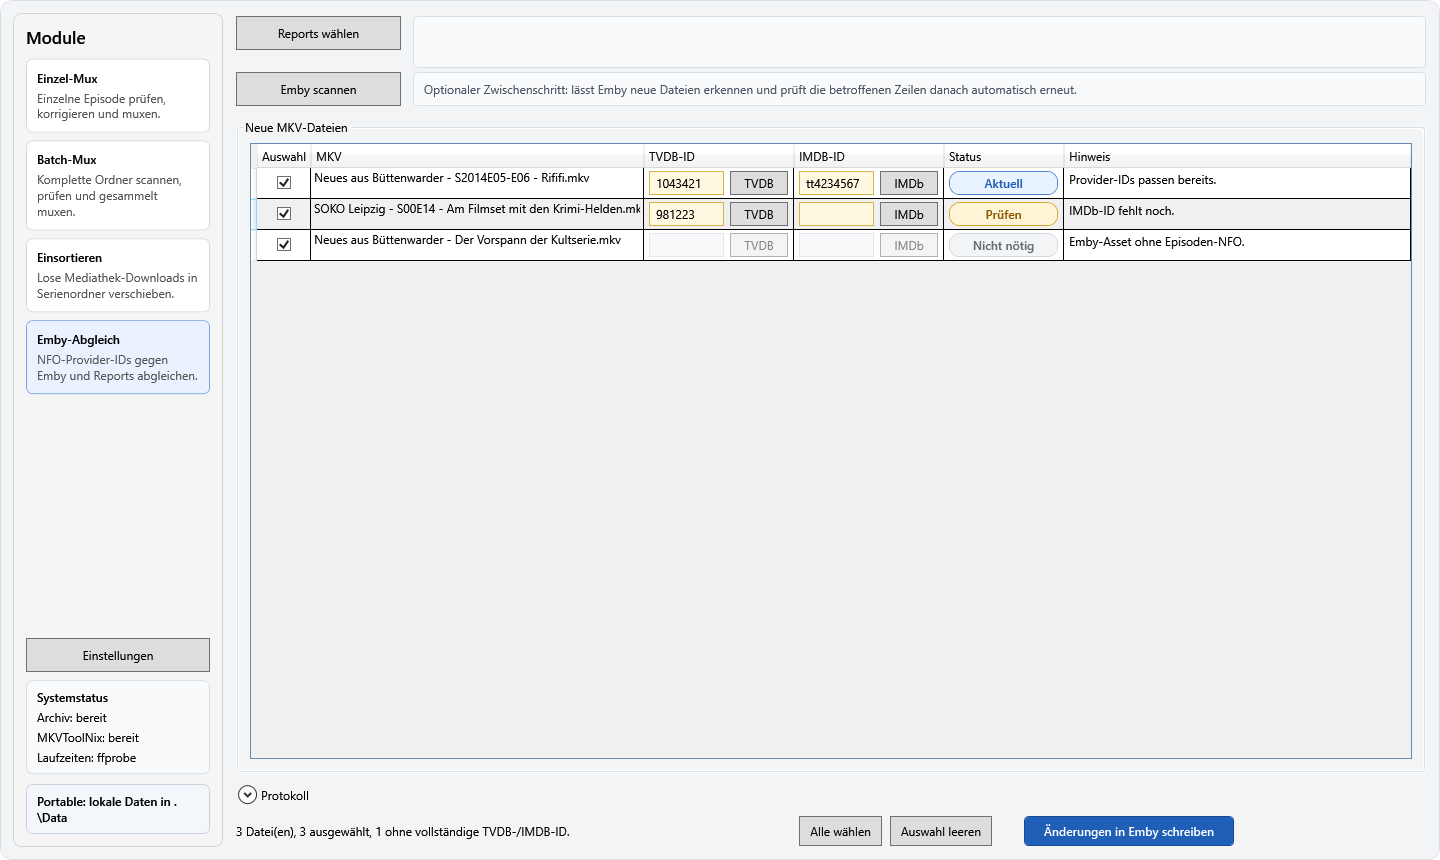
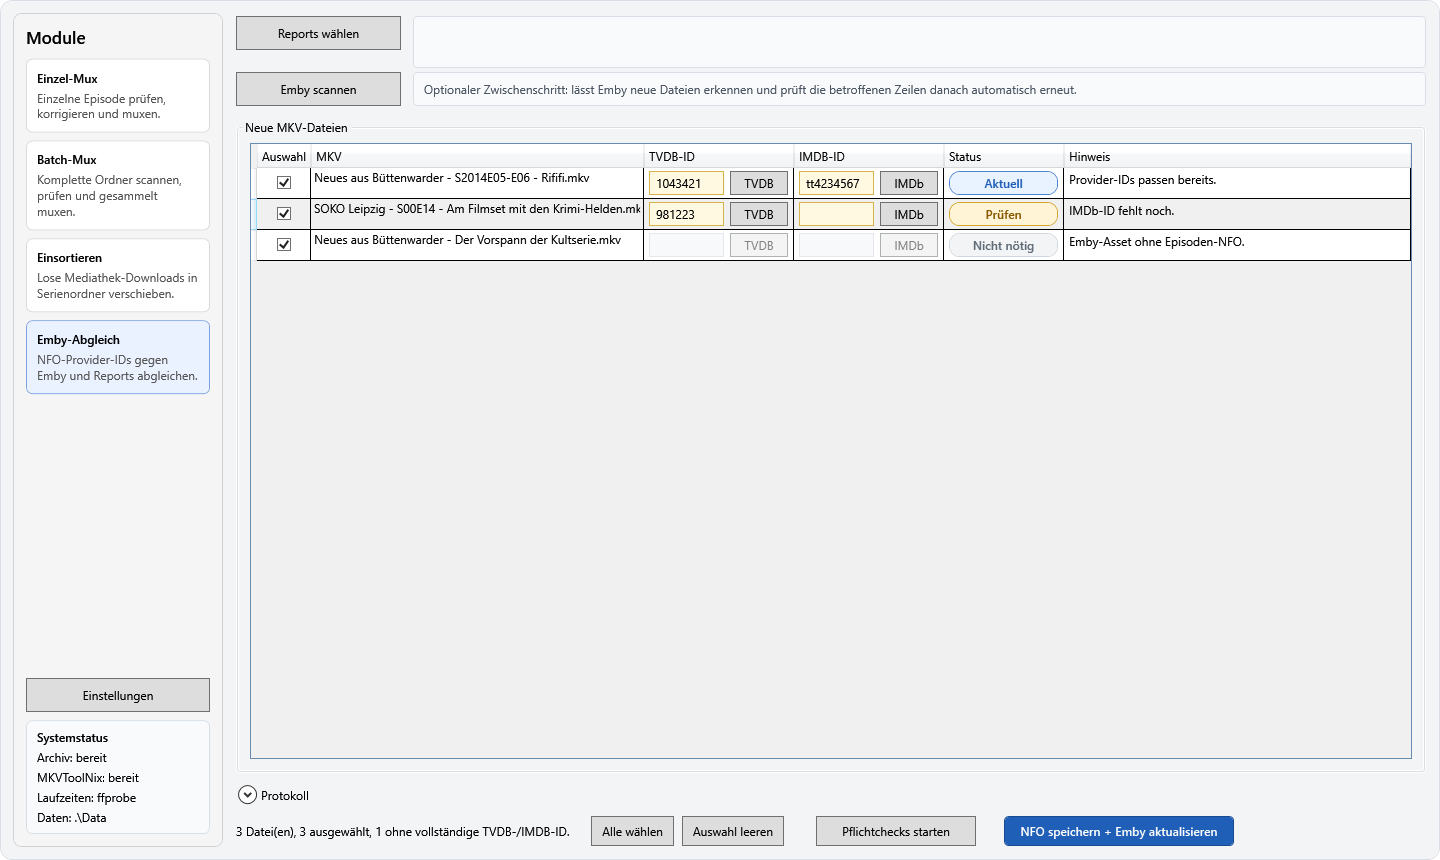
Refresh README screenshots

Changed region(s): [[0.4062, 0.9372, 0.8438, 0.9977], [0.0, 0.7558, 0.1562, 0.9674]]

diff --git a/tools/ReadmeScreenshotGenerator/DemoData.cs b/tools/ReadmeScreenshotGenerator/DemoData.cs
@@ -16,6 +16,80 @@ internal static class DemoData
         return (SolidColorBrush)new BrushConverter().ConvertFromString(hex)!;
     }
 
+    public static DemoSingleViewModel CreateSingleViewModel()
+    {
+        var languageOptions = new ObservableCollection<DemoLanguageOption>
+        {
+            new("", "Automatisch"),
+            new("de", "Deutsch"),
+            new("en", "English")
+        };
+
+        return new DemoSingleViewModel
+        {
+            MainVideoPath = @"C:\Demo\Downloads\MediathekView\Neues aus Büttenwarder\Rififi.mp4",
+            HasPlanSummary = true,
+            OutputTargetBadgeBackground = Brush("#FFE9F8EE"),
+            OutputTargetBadgeBorderBrush = Brush("#FF63A46C"),
+            OutputTargetBadgeText = "Archiv gefunden",
+            OutputTargetBadgeTooltip = "Eine passende Bibliotheksdatei wird als Arbeitskopie verwendet.",
+            ManualCheckBadgeBackground = Brush("#FFFFF4D6"),
+            ManualCheckBadgeBorderBrush = Brush("#FFD6A62A"),
+            ManualCheckBadgeText = "Hinweis offen",
+            ManualCheckBadgeTooltip = "Vor dem Muxen sollte die Doppelfolge kurz geprüft werden.",
+            MetadataBadgeBackground = Brush("#FFE9F2FF"),
+            MetadataBadgeBorderBrush = Brush("#FF4C84D3"),
+            MetadataBadgeText = "TVDB bestätigt",
+            MetadataBadgeTooltip = "Metadaten wurden aus der TVDB übernommen.",
+            UsageSummary = new DemoEpisodeUsageSummary
+            {
+                ArchiveAction = "Arbeitskopie",
+                ArchiveDetails = "Vorhandene Doppelfolge bleibt Basis, frische FHD-Spur ersetzt die alte HD-Spur.",
+                MainVideo = new DemoUsageGroup("Deutsch - FHD - H.264 aus frischer Quelle", true, "Deutsch - HD - H.264 aus Bibliothek", "bessere Auflösung verfügbar"),
+                AdditionalVideos = new DemoUsageGroup("Plattdüütsch - HD - H.264 bleibt erhalten"),
+                Audio = new DemoUsageGroup("Deutsch - AAC aus frischer Quelle, Plattdüütsch - AAC aus Archiv"),
+                AudioDescription = new DemoUsageGroup("Keine AD-Quelle vorhanden"),
+                Subtitles = new DemoUsageGroup("Deutsch (hörgeschädigte) - SRT wird ergänzt"),
+                Attachments = new DemoUsageGroup("Rififi.txt wird neu eingebettet")
+            },
+            HasPendingPlanReview = true,
+            PrimaryActionablePlanNote = "Doppelfolge erkannt. Vor dem Muxen bitte kurz prüfen, ob die kombinierte Archivdatei als Ziel korrekt ist.",
+            RequiresManualCheck = false,
+            SeriesName = "Neues aus Büttenwarder",
+            SeasonNumber = "2014",
+            EpisodeNumber = "05-06",
+            Title = "Rififi",
+            HasMetadataStatus = true,
+            MetadataStatusText = "S2014E05-E06 - Rififi wurde bestätigt. Originalsprache: Deutsch.",
+            MetadataActionButtonText = "TVDB prüfen",
+            MetadataActionButtonTooltip = "TVDB-Auswahl öffnen.",
+            AudioDescriptionPath = "Keine separate AD-Datei ausgewählt.",
+            AudioDescriptionButtonText = "AD korrigieren",
+            SubtitlePaths =
+            [
+                @"C:\Demo\Downloads\MediathekView\Neues aus Büttenwarder\Rififi.de.srt",
+                @"C:\Demo\Downloads\MediathekView\Neues aus Büttenwarder\Rififi.nds.ass"
+            ],
+            AttachmentPaths =
+            [
+                @"C:\Demo\Downloads\MediathekView\Neues aus Büttenwarder\Rififi.txt"
+            ],
+            OutputPath = @"Z:\Videos\Serien\Neues aus Büttenwarder\Season 2014\Neues aus Büttenwarder - S2014E05-E06 - Rififi.mkv",
+            LanguageOverrideOptions = languageOptions,
+            VideoLanguageOverride = string.Empty,
+            AudioLanguageOverride = string.Empty,
+            OriginalLanguageOverride = "de",
+            HasOutputTargetStatus = true,
+            OutputTargetStatusText = "Ausgabe liegt im Serienarchiv. Der vorhandene Zielcontainer wird als Arbeitskopie genutzt.",
+            StatusText = "Vorschau bereit. Offenen Hinweis prüfen, dann muxen.",
+            ProgressValue = 0,
+            PreviewText = "mkvmerge --output \"...Rififi.mkv\" --title \"Rififi\" ...\r\nGeplante Änderung: Deutsch - FHD - H.264 ersetzt Deutsch - HD - H.264.",
+            CreatePreviewButtonTooltip = "Geplanten mkvmerge-Aufruf aktualisieren.",
+            CancelCurrentOperationTooltip = "Kein laufender Vorgang.",
+            ExecuteMuxButtonTooltip = "Mux mit den geprüften Einstellungen starten."
+        };
+    }
+
     public static DemoBatchViewModel CreateBatchViewModel()
     {
         var filterModes = new ObservableCollection<DemoChoice>
@@ -59,19 +133,19 @@ internal static class DemoData
                 MetadataStatusText = "TVDB-Zuordnung bestätigt und Archivvergleich geprüft.",
                 RequestedSourcePaths =
                 [
-                    @"C:\Users\tobby\Downloads\MediathekView-latest-win\Downloads\Neues aus Büttenwarder\Rififi.mp4",
-                    @"C:\Users\tobby\Downloads\MediathekView-latest-win\Downloads\Neues aus Büttenwarder\Rififi op Platt.mp4"
+                    @"C:\Demo\Downloads\MediathekView\Neues aus Büttenwarder\Rififi.mp4",
+                    @"C:\Demo\Downloads\MediathekView\Neues aus Büttenwarder\Rififi op Platt.mp4"
                 ],
                 MainVideoDisplayText = "Deutsch - FHD - H.264 aus der frischen Mediathek-Quelle",
                 VideoAndAudioDescriptionDisplayText = "Plattdüütsch - HD - H.264, Audiodeskription: keine",
                 SubtitlePaths =
                 [
-                    @"C:\Users\tobby\Downloads\MediathekView-latest-win\Downloads\Neues aus Büttenwarder\Rififi.de.srt",
-                    @"C:\Users\tobby\Downloads\MediathekView-latest-win\Downloads\Neues aus Büttenwarder\Rififi.nds.ass"
+                    @"C:\Demo\Downloads\MediathekView\Neues aus Büttenwarder\Rififi.de.srt",
+                    @"C:\Demo\Downloads\MediathekView\Neues aus Büttenwarder\Rififi.nds.ass"
                 ],
                 AttachmentPaths =
                 [
-                    @"C:\Users\tobby\Downloads\MediathekView-latest-win\Downloads\Neues aus Büttenwarder\Rififi.txt"
+                    @"C:\Demo\Downloads\MediathekView\Neues aus Büttenwarder\Rififi.txt"
                 ],
                 OutputPath = @"Z:\Videos\Serien\Neues aus Büttenwarder\Season 2014\Neues aus Büttenwarder - S2014E05-E06 - Rififi.mkv",
                 Notes =
@@ -138,7 +212,7 @@ internal static class DemoData
         return new DemoBatchViewModel
         {
             IsInteractive = true,
-            SourceDirectory = @"C:\Users\tobby\Downloads\MediathekView-latest-win\Downloads\Neues aus Büttenwarder",
+            SourceDirectory = @"C:\Demo\Downloads\MediathekView\Neues aus Büttenwarder",
             OutputDirectory = @"Z:\Videos\Serien",
             HasOutputDirectoryHint = true,
             OutputDirectoryHintText = "Die Serienbibliothek ist erreichbar. Ausgabepfade werden direkt in die passenden Serienordner geplant.",
@@ -217,7 +291,7 @@ internal static class DemoData
         return new DemoDownloadSortViewModel
         {
             IsInteractive = true,
-            SourceDirectory = @"C:\Users\tobby\Downloads\MediathekView-latest-win\Downloads",
+            SourceDirectory = @"C:\Demo\Downloads\MediathekView",
             SummaryText = "3 lose Download-Pakete erkannt. 2 können direkt einsortiert werden, 1 ist als defekt markiert.",
             Items = items,
             SelectedItem = items[1],

diff --git a/tools/ReadmeScreenshotGenerator/DemoModels.cs b/tools/ReadmeScreenshotGenerator/DemoModels.cs
@@ -24,6 +24,77 @@ internal sealed record DemoChoice(string Title, string Description = "")
     public string DisplayName => Title;
 }
 
+internal sealed record DemoLanguageOption(string Code, string DisplayName);
+
+internal sealed class DemoSingleViewModel
+{
+    public string MainVideoPath { get; init; } = string.Empty;
+    public bool HasPlanSummary { get; init; }
+    public Brush OutputTargetBadgeBackground { get; init; } = Brushes.Transparent;
+    public Brush OutputTargetBadgeBorderBrush { get; init; } = Brushes.Transparent;
+    public string OutputTargetBadgeText { get; init; } = string.Empty;
+    public string OutputTargetBadgeTooltip { get; init; } = string.Empty;
+    public Brush ManualCheckBadgeBackground { get; init; } = Brushes.Transparent;
+    public Brush ManualCheckBadgeBorderBrush { get; init; } = Brushes.Transparent;
+    public string ManualCheckBadgeText { get; init; } = string.Empty;
+    public string ManualCheckBadgeTooltip { get; init; } = string.Empty;
+    public Brush MetadataBadgeBackground { get; init; } = Brushes.Transparent;
+    public Brush MetadataBadgeBorderBrush { get; init; } = Brushes.Transparent;
+    public string MetadataBadgeText { get; init; } = string.Empty;
+    public string MetadataBadgeTooltip { get; init; } = string.Empty;
+    public DemoEpisodeUsageSummary? UsageSummary { get; init; }
+    public bool HasPendingPlanReview { get; init; }
+    public string PrimaryActionablePlanNote { get; init; } = string.Empty;
+    public bool HasPlanRefreshProblem { get; init; }
+    public string PlanRefreshProblemText { get; init; } = string.Empty;
+    public bool RequiresManualCheck { get; init; }
+    public string ManualCheckText { get; init; } = string.Empty;
+    public string ManualCheckButtonText { get; init; } = string.Empty;
+    public string ManualCheckButtonTooltip { get; init; } = string.Empty;
+    public string SeriesName { get; set; } = string.Empty;
+    public string SeasonNumber { get; set; } = string.Empty;
+    public string EpisodeNumber { get; set; } = string.Empty;
+    public string Title { get; set; } = string.Empty;
+    public bool HasMetadataStatus { get; init; }
+    public string MetadataStatusText { get; init; } = string.Empty;
+    public string MetadataActionButtonText { get; init; } = string.Empty;
+    public string MetadataActionButtonTooltip { get; init; } = string.Empty;
+    public string AudioDescriptionPath { get; init; } = string.Empty;
+    public string AudioDescriptionButtonText { get; init; } = string.Empty;
+    public ObservableCollection<string> SubtitlePaths { get; init; } = [];
+    public ObservableCollection<string> AttachmentPaths { get; init; } = [];
+    public string OutputPath { get; init; } = string.Empty;
+    public ObservableCollection<DemoLanguageOption> LanguageOverrideOptions { get; init; } = [];
+    public string? VideoLanguageOverride { get; set; }
+    public string? AudioLanguageOverride { get; set; }
+    public string? OriginalLanguageOverride { get; set; }
+    public bool HasOutputTargetStatus { get; init; }
+    public string OutputTargetStatusText { get; init; } = string.Empty;
+    public string StatusText { get; init; } = string.Empty;
+    public int ProgressValue { get; init; }
+    public string PreviewText { get; init; } = string.Empty;
+    public ICommand SelectMainVideoCommand { get; init; } = new NoOpRelayCommand();
+    public ICommand OpenMainVideoCommand { get; init; } = new NoOpRelayCommand();
+    public ICommand ApprovePlanReviewCommand { get; init; } = new NoOpRelayCommand();
+    public ICommand TestSelectedSourcesCommand { get; init; } = new NoOpRelayCommand();
+    public ICommand OpenTvdbLookupCommand { get; init; } = new NoOpRelayCommand();
+    public ICommand RescanCommand { get; init; } = new NoOpRelayCommand();
+    public ICommand SelectAudioDescriptionCommand { get; init; } = new NoOpRelayCommand();
+    public ICommand OpenAudioDescriptionCommand { get; init; } = new NoOpRelayCommand();
+    public ICommand SelectSubtitlesCommand { get; init; } = new NoOpRelayCommand();
+    public ICommand OpenSubtitlesCommand { get; init; } = new NoOpRelayCommand();
+    public ICommand SelectAttachmentCommand { get; init; } = new NoOpRelayCommand();
+    public ICommand OpenAttachmentsCommand { get; init; } = new NoOpRelayCommand();
+    public ICommand SelectOutputCommand { get; init; } = new NoOpRelayCommand();
+    public ICommand OpenOutputCommand { get; init; } = new NoOpRelayCommand();
+    public ICommand CreatePreviewCommand { get; init; } = new NoOpRelayCommand();
+    public string CreatePreviewButtonTooltip { get; init; } = string.Empty;
+    public ICommand CancelCurrentOperationCommand { get; init; } = new NoOpRelayCommand();
+    public string CancelCurrentOperationTooltip { get; init; } = string.Empty;
+    public ICommand ExecuteMuxCommand { get; init; } = new NoOpRelayCommand();
+    public string ExecuteMuxButtonTooltip { get; init; } = string.Empty;
+}
+
 internal sealed class DemoBatchViewModel
 {
     public bool IsInteractive { get; init; }

diff --git a/tools/ReadmeScreenshotGenerator/Program.cs b/tools/ReadmeScreenshotGenerator/Program.cs
@@ -28,6 +28,17 @@ internal static class Program
         {
             RenderScreenshot(
                 outputDirectory,
+                "single-mux.png",
+                "Einzel-Mux",
+                new SingleEpisodeMuxView
+                {
+                    DataContext = DemoData.CreateSingleViewModel()
+                },
+                1420,
+                900);
+
+            RenderScreenshot(
+                outputDirectory,
                 "batch-mux.png",
                 "Batch-Mux",
                 new BatchMuxView
@@ -200,18 +211,12 @@ internal static class Program
             [
                 "Archiv: bereit",
                 "MKVToolNix: bereit",
-                "Laufzeiten: ffprobe"
+                "Laufzeiten: ffprobe",
+                @"Daten: .\Data"
             ],
             "#F8FAFC",
             "#D5DEE8",
             new Thickness(0, 8, 0, 0)));
-
-        sideBarFooter.Children.Add(CreateFooterCard(
-            "Portable: lokale Daten in .\\Data",
-            [],
-            "#F3F6FA",
-            "#C7D1DC",
-            new Thickness(0, 10, 0, 0)));
 
         var contentHost = new Border
         {

diff --git a/README.md b/README.md
@@ -35,6 +35,10 @@ Die App ist bewusst auf einen konkreten persönlichen Workflow zugeschnitten. Si
 
 ## Screenshots
 
+### Einzel-Mux
+
+![Einzel-Mux](docs/images/readme/single-mux.png)
+
 ### Batch-Mux
 
 ![Batch-Mux](docs/images/readme/batch-mux.png)
